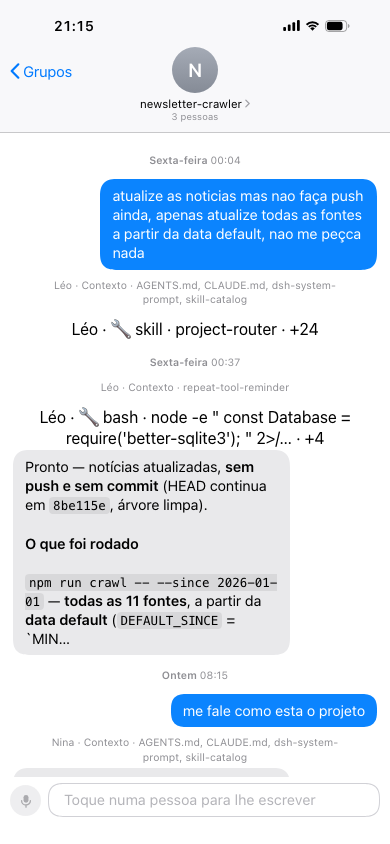
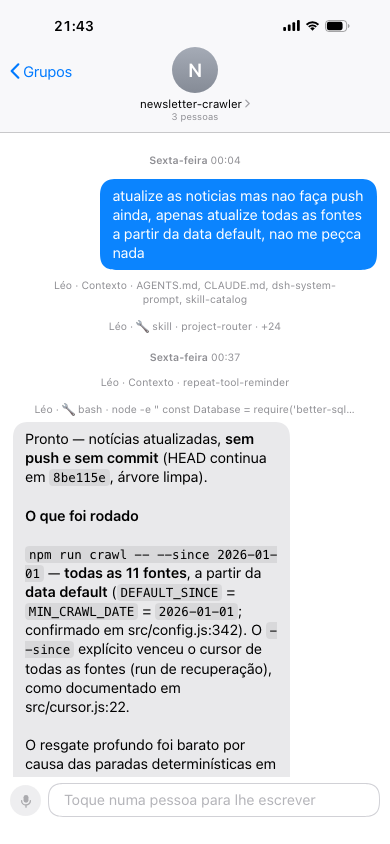
fix(celular): mensagens do grupo com a formatação COMPLETA da conversa
O feed do grupo truncava o texto bruto a 240 caracteres — partia o markdown a
meio (crases soltas tipo "MIN…", palavras cortadas "Conf…") e as ferramentas
saíam em texto grande, sem formato de linha. Agora:

- mensagens do grupo usam os MESMOS segmentos da conversa individual
  (negrito, código, tabelas, listas) + "Ler mais" nas longas — nada se corta
  a meio da sintaxe; o "Ler mais" não dispara a abertura da conversa
- linhas de ferramenta ficam na linha compacta cinzenta (a da conversa),
  com o nome de quem a usou e clicáveis (abrem a conversa dessa pessoa)

Verificado no macmini (0 erros de consola): a mensagem do Léo passou de 219
chars truncados (1 crase solta) para os 1422 completos com strong:12/code:14 —
idêntica à da conversa individual; a da Nina igual (1504, lista numerada).
Testes novos em tests/plugin/telefone.test.mjs; capturas atualizadas em
docs/evidencias/celular-movel/. 273/273 testes verdes.

Changed region(s): [[0.0615, 0.3697, 0.9846, 0.9242], [0.7385, 0.3697, 0.8308, 0.4005], [0.1846, 0.3697, 0.2462, 0.4005]]

diff --git a/dsh-plugin/src/client.js b/dsh-plugin/src/client.js
@@ -4937,6 +4937,12 @@ window.__ModuleLoader__.load({
       });
       const linhas = linhasDoGrupo(membros, { agora });
       const verPessoa = (id) => { if (typeof abrirTelefone === 'function') abrirTelefone(id); };
+      const [abertos, setAbertos] = react.useState(() => new Set()); // "Ler mais" das longas
+      const alternar = (chave) => setAbertos((atual) => {
+        const novo = new Set(atual);
+        if (novo.has(chave)) novo.delete(chave); else novo.add(chave);
+        return novo;
+      });
 
       const linha = (l) => {
         switch (l.tipo) {
@@ -4947,8 +4953,17 @@ window.__ModuleLoader__.load({
           case 'ferramentas': {
             const p = l.itens[0];
             const n = l.itens.length;
-            const resumo = `🔧 ${p.nome}${p.resumo ? ` · ${p.resumo}` : ''}${n > 1 ? ` · +${n - 1}` : ''}`;
-            return h('div', { key: l.key, className: 'wg-tel-ferramentas', 'data-n': n, title: `${l.membro.nome}: ${p.nome}` }, `${l.membro.nome} · ${resumo}`);
+            const aCorrer = l.itens.some((x) => x.estado === 'a-correr');
+            const resumo = `🔧 ${p.nome}${p.resumo ? ` · ${p.resumo}` : ''}${n > 1 ? ` · +${n - 1}` : ''}${aCorrer ? ' …' : ''}`;
+            // Linha COMPACTA e cinzenta (a mesma da conversa individual — o
+            // texto grande era o que parecia "mensagem não formatada"), com o
+            // nome de quem a usou; clicar abre a conversa dessa pessoa.
+            return h('div', { key: l.key, className: 'wg-tel-ferramentas', 'data-n': n },
+              h('button', {
+                type: 'button', className: 'wg-tel-clicavel',
+                title: `${l.membro.nome}: ${p.nome} — abrir a conversa`,
+                onClick: () => verPessoa(l.membro.id),
+              }, `${l.membro.nome} · ${resumo}`));
           }
           case 'a-escrever':
             return h('div', {
@@ -4965,6 +4980,13 @@ window.__ModuleLoader__.load({
             if (l.rotulo) classes.push('wg-tel-inicio');
             if (!meu) classes.push('wg-tel-clicavel');
             const abrir = { onClick: () => verPessoa(l.membro.id) };
+            // A MESMA formatação da conversa individual: os segmentos completos
+            // (negrito, código, tabelas, listas) e "Ler mais" nas longas. O corte
+            // antigo (240 caracteres do texto bruto) partia a sintaxe a meio —
+            // crases soltas, palavras cortadas.
+            const longo = l.texto.length > TEXTO_LONGO;
+            const curto = longo && !abertos.has(l.key);
+            const segmentos = l.segmentos || segmentosEmCache(curto ? `${l.texto.slice(0, TEXTO_LONGO).trimEnd()}…` : l.texto);
             return h('div', {
               key: l.key, className: classes.join(' '), 'data-lado': l.lado, 'data-session-id': l.membro.id,
               ...(meu ? {} : {
@@ -4977,7 +4999,15 @@ window.__ModuleLoader__.load({
               !meu && l.rotulo ? h('div', { className: 'wg-tel-remetente' }, l.membro.nome) : null,
               h('div', { className: 'wg-tel-linha' },
                 h('div', { className: 'wg-tel-bolha' },
-                  ...conteudoDaBolha(segmentosEmCache(cortar(String(l.texto ?? ''), 240))))));
+                  ...conteudoDaBolha(segmentos),
+                  ...(l.anexos || []).map((a, i) => h('span', { key: `anexo-${i}`, className: 'wg-tel-anexo' }, `${a.tipo === 'imagem' ? '📷' : '📎'} ${a.nome}`)),
+                  longo
+                    ? h('button', {
+                      type: 'button', key: 'ler', className: 'wg-tel-ler-mais',
+                      // o "Ler mais" não pode disparar a abertura da conversa
+                      onClick: (e) => { e.stopPropagation(); alternar(l.key); },
+                    }, curto ? 'Ler mais' : 'Mostrar menos')
+                    : null)));
           }
           default:
             return null;

diff --git a/docs/contratos-plugin.md b/docs/contratos-plugin.md
@@ -493,7 +493,7 @@ desktop; **no telemóvel não fecha** — o celular É o ecrã). Dados:
   acontece só quando ele ABRE (navegar não a repete).
 - **Modo telemóvel** (`emCelular()`: `(max-width: 620px) and (pointer: coarse)`): o painel recebe
   `wg-so-celular` e o celular vira **`position: fixed` fullscreen contra a JANELA** (o
-  `container-type` do painel desliga-se para o fixed escapar) — cobre TODO o DSH (a barra não se
+  `container-type` do painel desliga-se para o fixed escapar) — cobre o DSH inteiro (a barra não se
   vê), sem toolbar/sala/barra, sem moldura (ilha e barra de casa fora) e sem animações de fundo.
   Navega-se só dentro do celular; a ÚNICA saída é o botão **✕ Fechar** da tela inicial (Grupos),
   que chama `layout.selectPanel(null)` — o Modo jogo fecha e a Conversa do DSH volta (o painel
